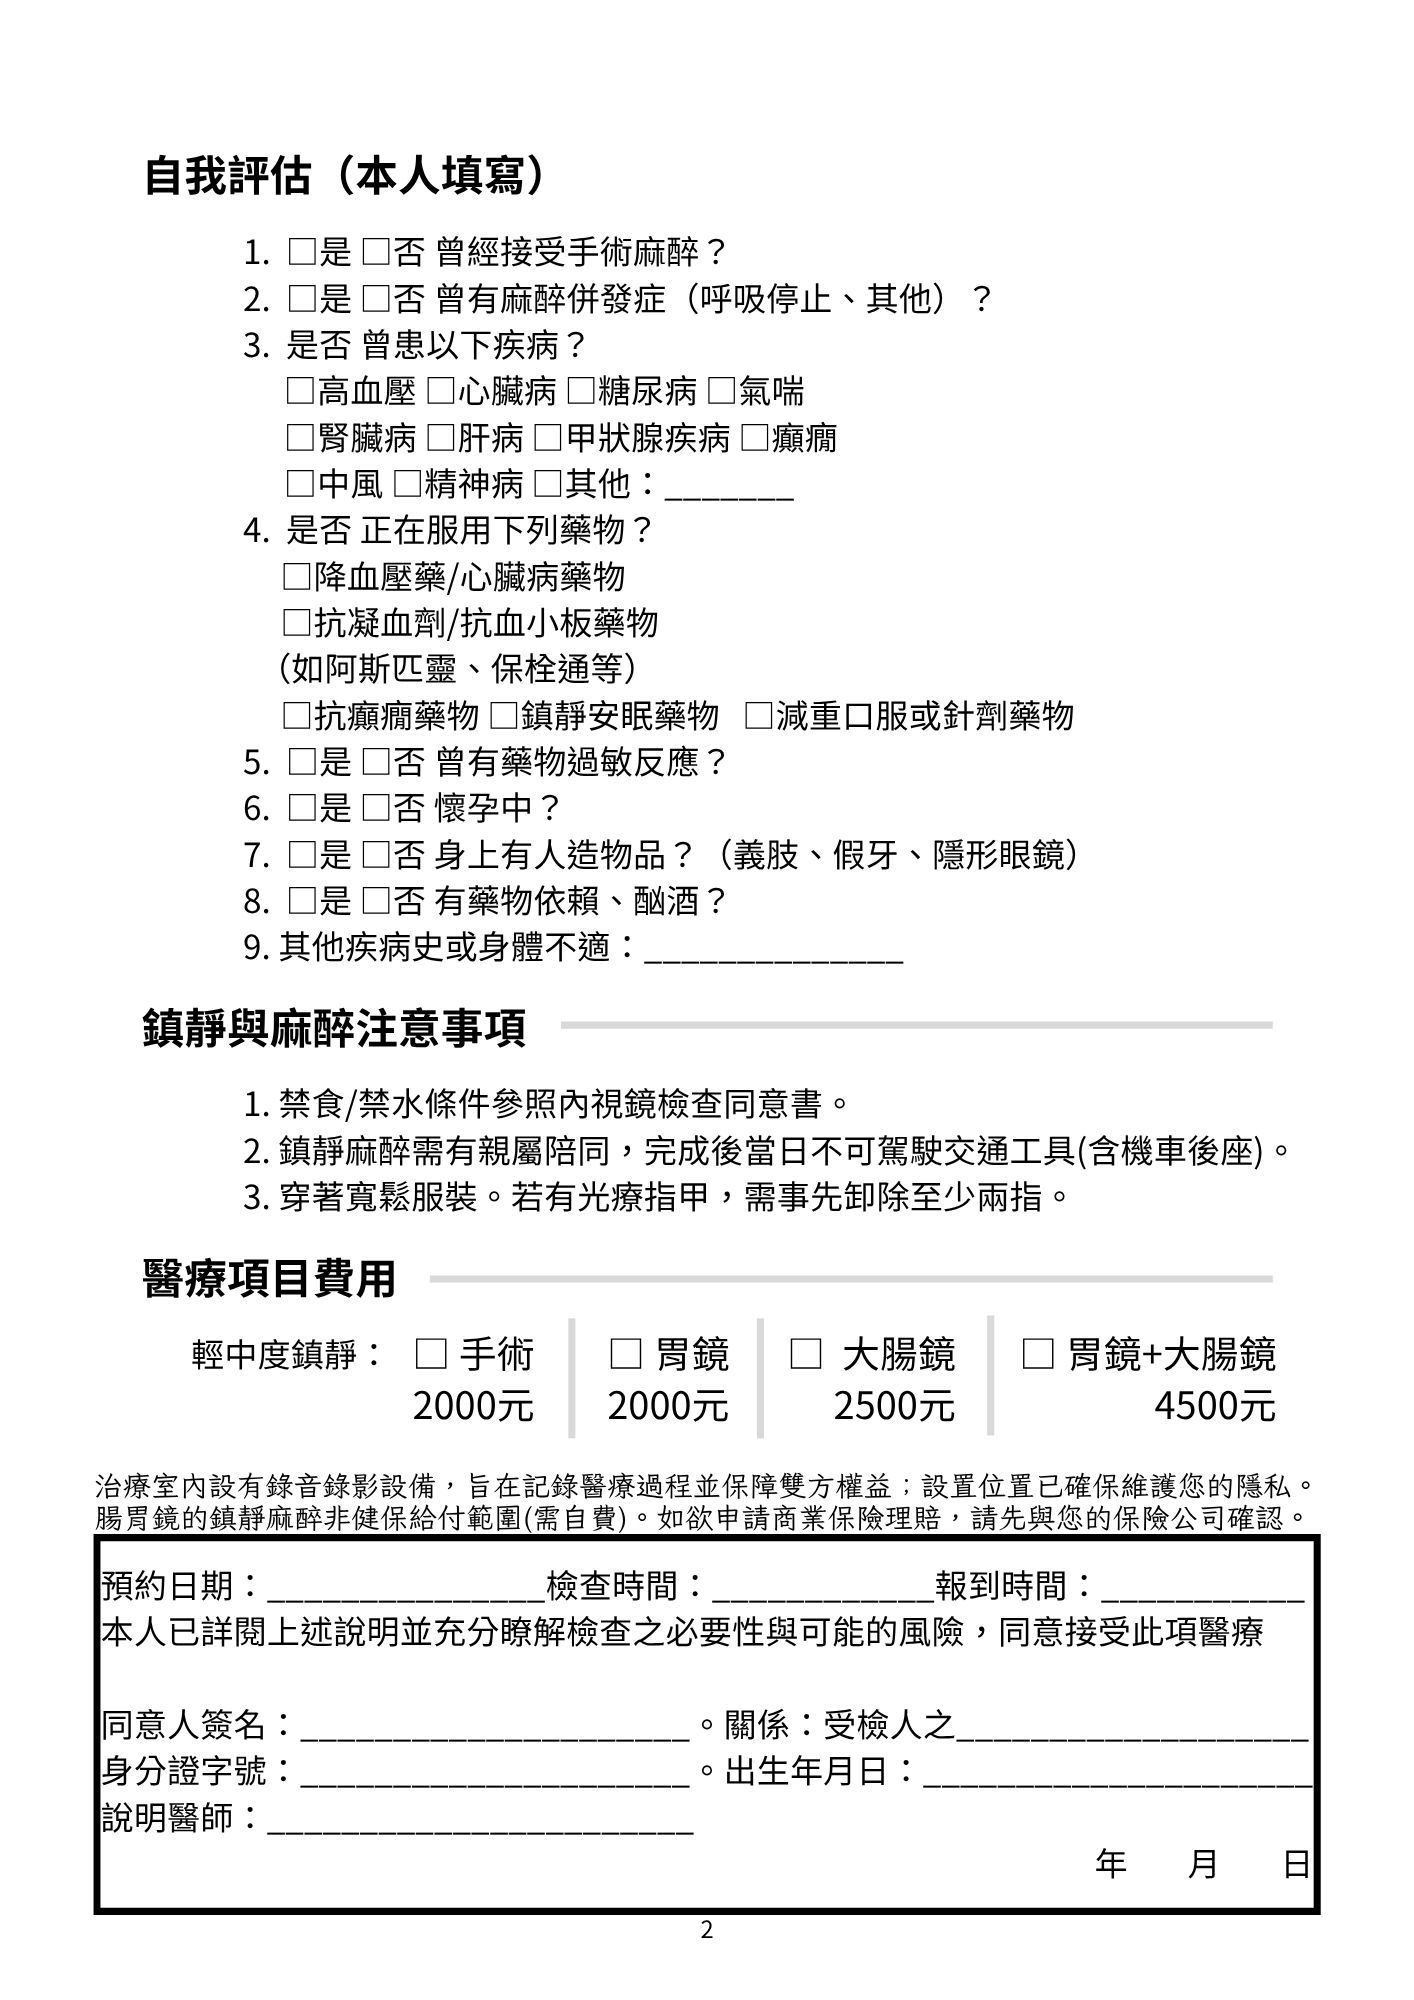
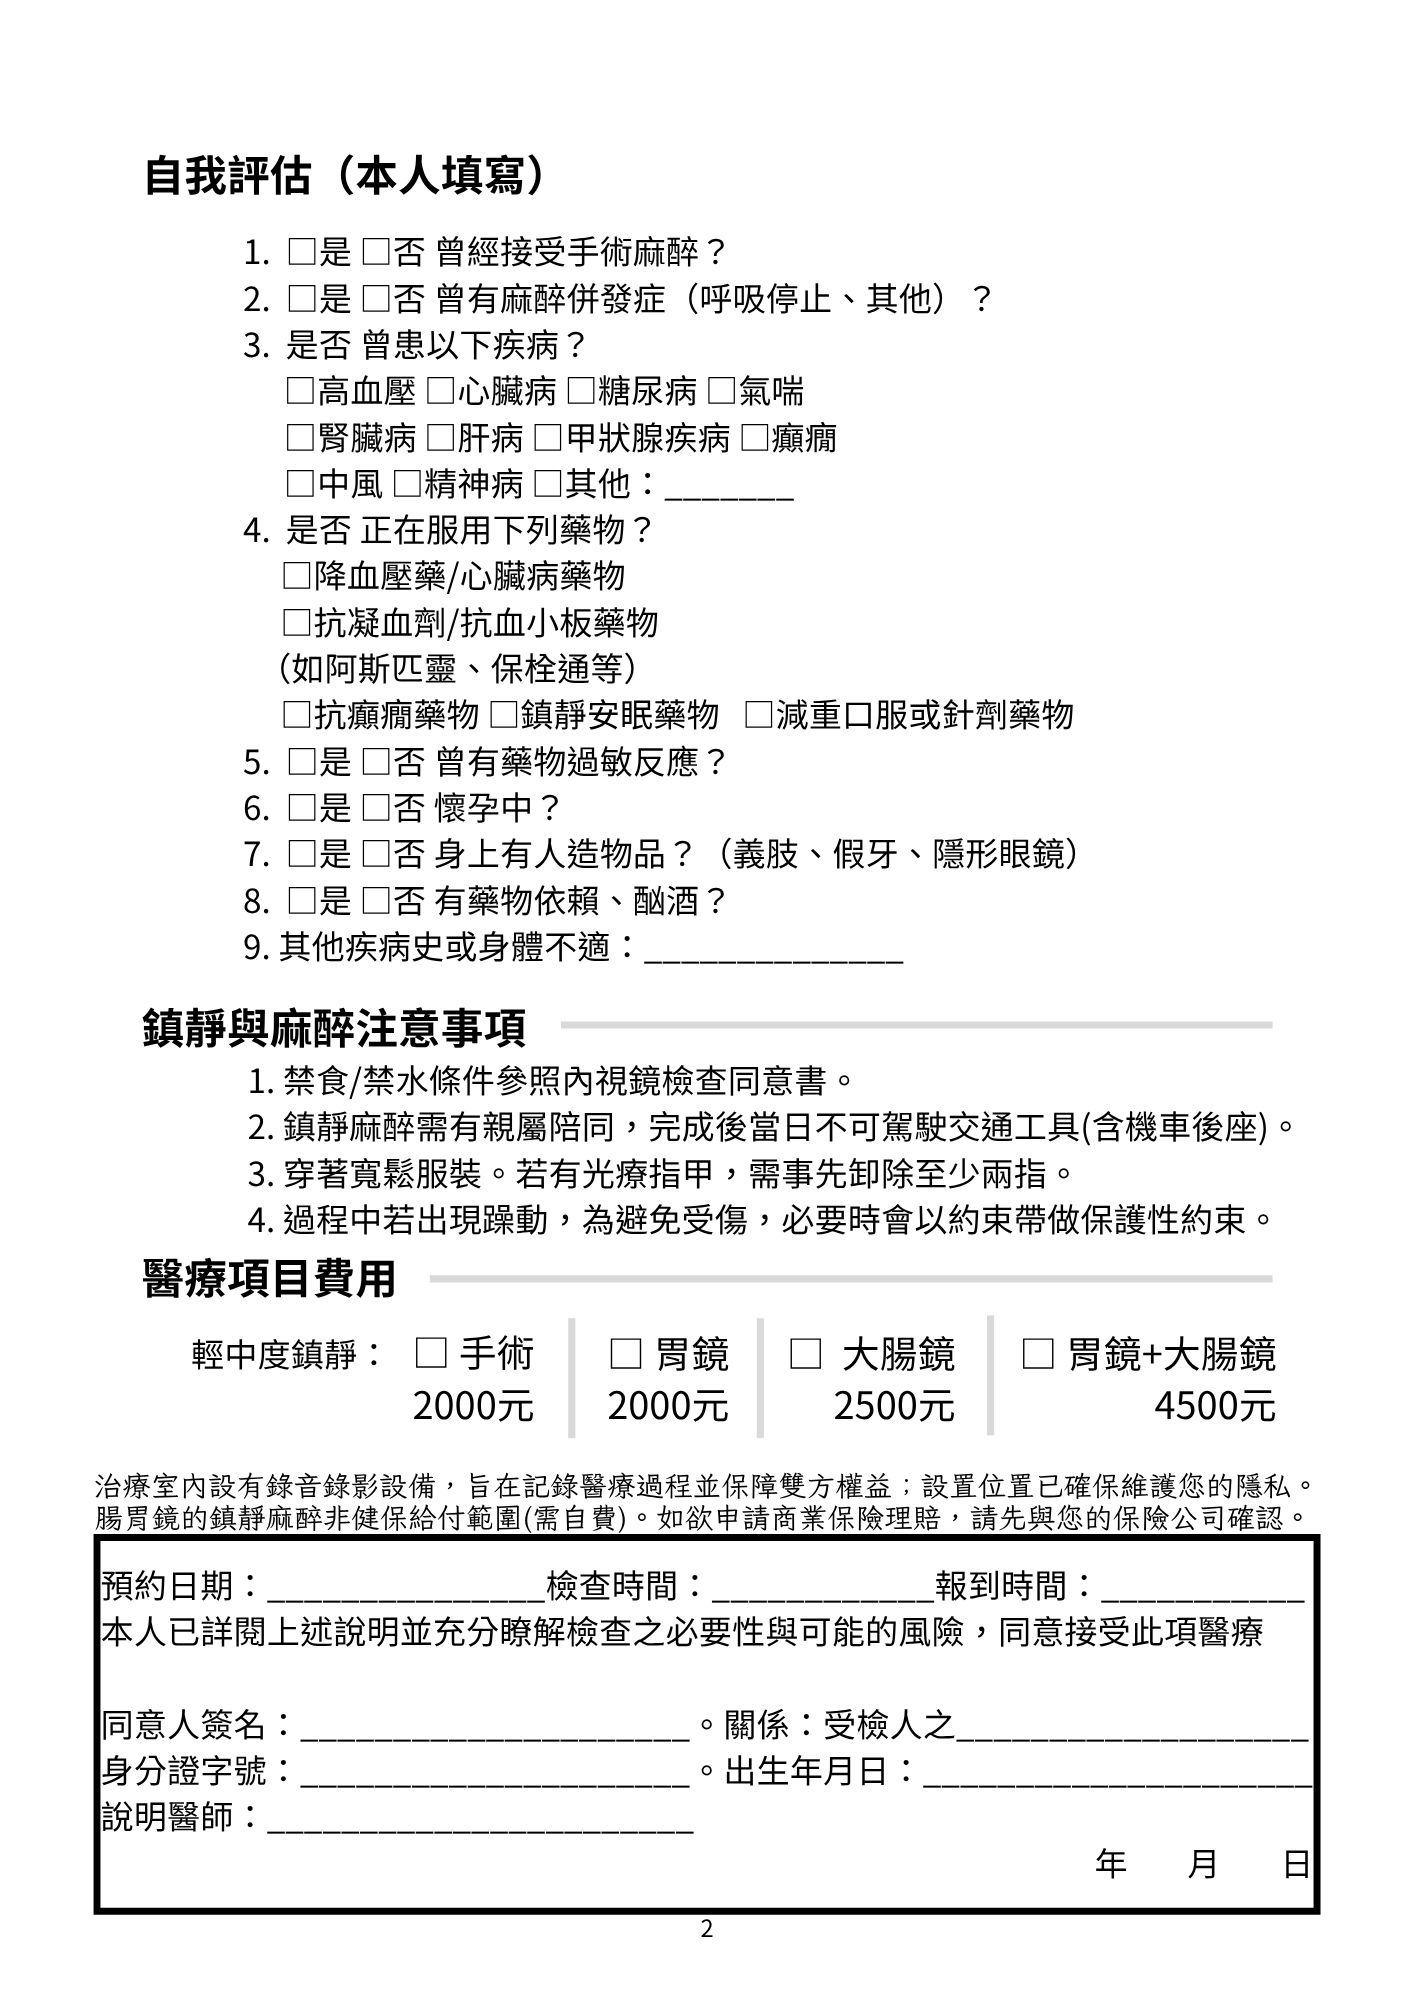
更新輕中度鎮靜同意書第二頁：鎮靜與麻醉注意事項新增約束帶說明
新增第四點：鎮靜期間若出現躁動，為避免墜床或受傷，醫療人員必要時會以約束帶固定肢體，清醒穩定後即解除。

diff --git a/index.html b/index.html
@@ -3575,7 +3575,7 @@ document.getElementById('btnPrint').addEventListener('click',()=>{
    最後改版日期
    ★ 每次改版請一併更新這個日期，會顯示於首頁左下角與列印版頁尾
    ═══════════════════════════════════════════════════════════════════ */
-const APP_REVISION = '2026-10-06';
+const APP_REVISION = '2026-10-11';
 
 function renderAppRevision(){
   const el = document.getElementById('appRevision');
